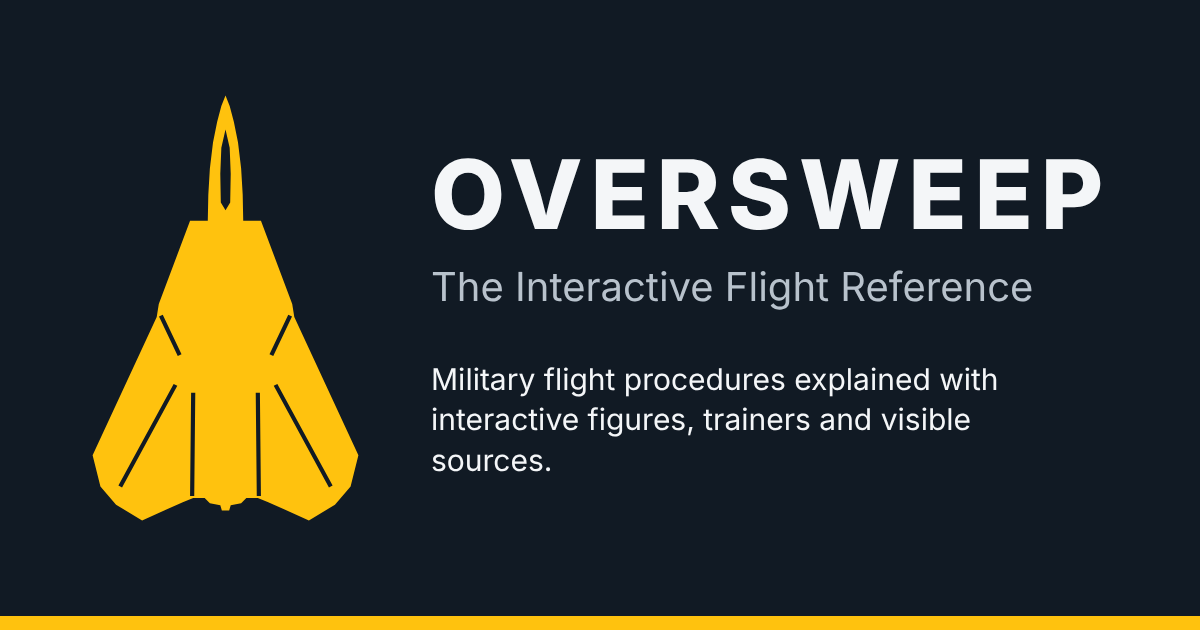
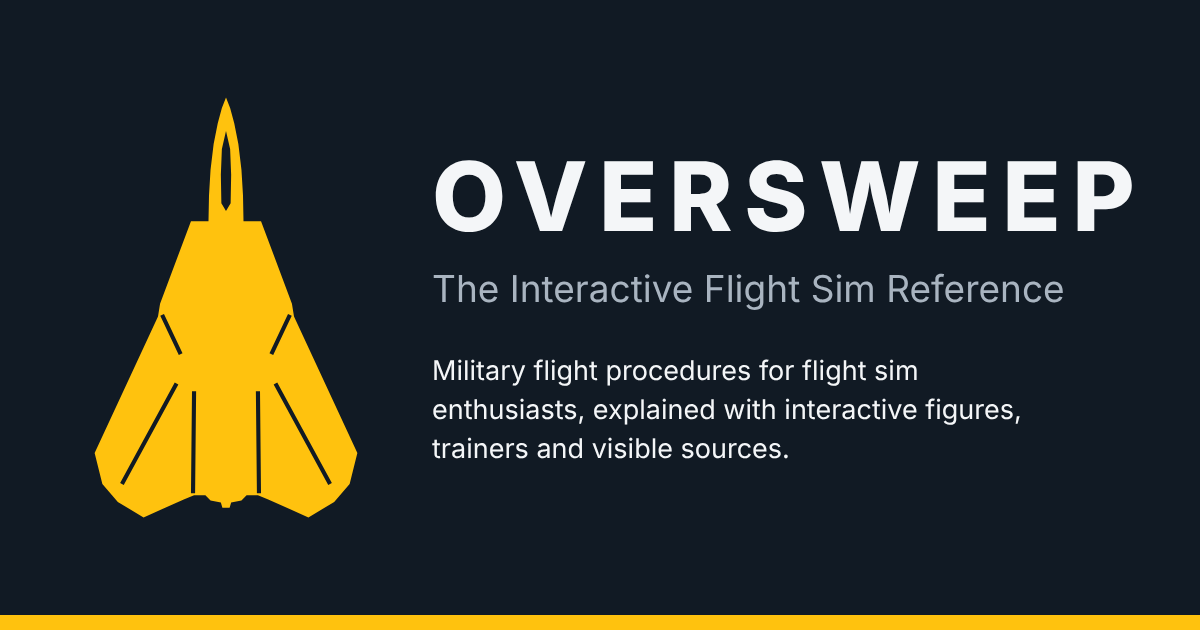
Add legal notice and flight sim branding
A /legal/ page covers simulation-only use, as-is information, limitation of
liability (with the Australian Consumer Law carve-out), no affiliation,
trademarks, sources and image licences, and privacy. The footer states the
sim-only scope and links to it.

The tagline, home hero, meta and Open Graph descriptions, og:site_name,
JSON-LD audience and the default share image now say the site is for
flight sim enthusiasts.

Claude-Session: https://claude.ai/code/session_01EeHwPNMTtytm6rUExwQNC1

diff --git a/src/lib/seo.ts b/src/lib/seo.ts
@@ -2,8 +2,12 @@ import { encyclopediaCategories, manualSubjects } from "../data/catalogue";
 import { manualEntries, subjectEntries } from "../data/availability";
 
 export const siteName = "Oversweep";
+// Link previews (Discord, Slack, social) show og:site_name above the title, so
+// it says who the site is for on every shared page.
+export const shareSiteName = "Oversweep · Flight sim reference";
+export const audience = { "@type": "Audience", audienceType: "Flight simulator enthusiasts" };
 export const defaultDescription =
-  "Oversweep explains military flight concepts with interactive figures and visible sources.";
+  "Oversweep explains military flight for flight sim enthusiasts, with interactive figures, trainers and visible sources.";
 
 // A page's route without the base path, such as "manual/navigation/".
 export function routeOf(pathname: string, base: string): string {
@@ -20,18 +24,18 @@ const sentence = (text: string) => (/[.!?]$/.test(text.trim()) ? text.trim() : `
 // results instead of repeating the site-wide line.
 export function describeRoute(route: string): string | undefined {
   const entry = manualEntries.find((e) => e.href === route);
-  if (entry) return `${entry.title}: ${sentence(entry.objective)}`;
+  if (entry) return `${entry.title}, for flight sim pilots: ${sentence(entry.objective)}`;
 
   const subject = manualSubjects.find((s) => route === `manual/${s.slug}/`);
   if (subject) {
     const titles = subjectEntries(subject.slug).map((e) => e.title);
     return titles.length
-      ? `${subject.title} in the Oversweep Manual, with interactive figures and sources: ${titles.join(", ")}.`
+      ? `${subject.title} for flight sim enthusiasts, in the Oversweep Manual: ${titles.join(", ")}.`
       : undefined;
   }
 
   const category = encyclopediaCategories.find((c) => route === `encyclopedia/${c.slug}/`);
-  if (category) return `${category.title} in the Oversweep Encyclopedia. ${sentence(category.summary)}`;
+  if (category) return `${category.title} for flight sim enthusiasts, in the Oversweep Encyclopedia. ${sentence(category.summary)}`;
 
   return undefined;
 }
